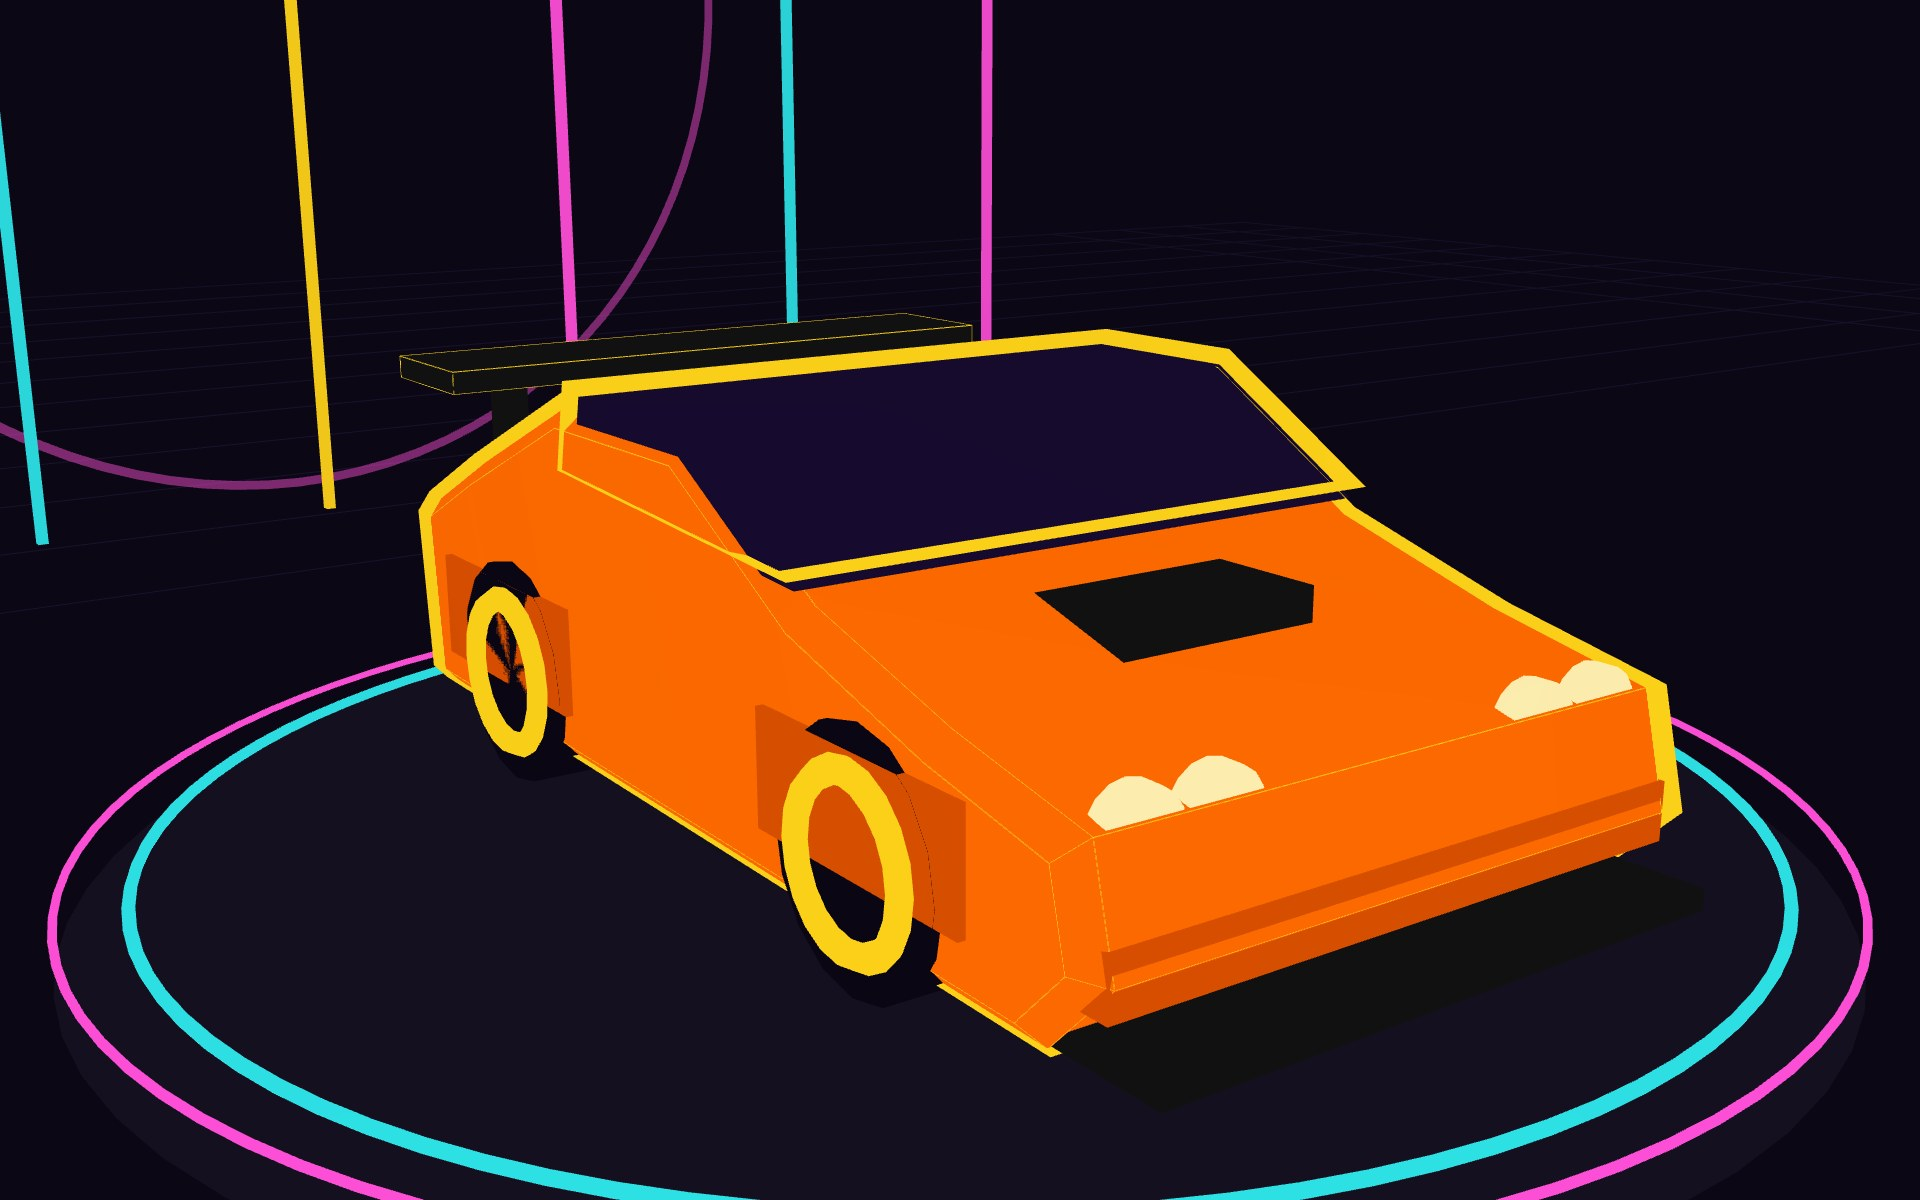
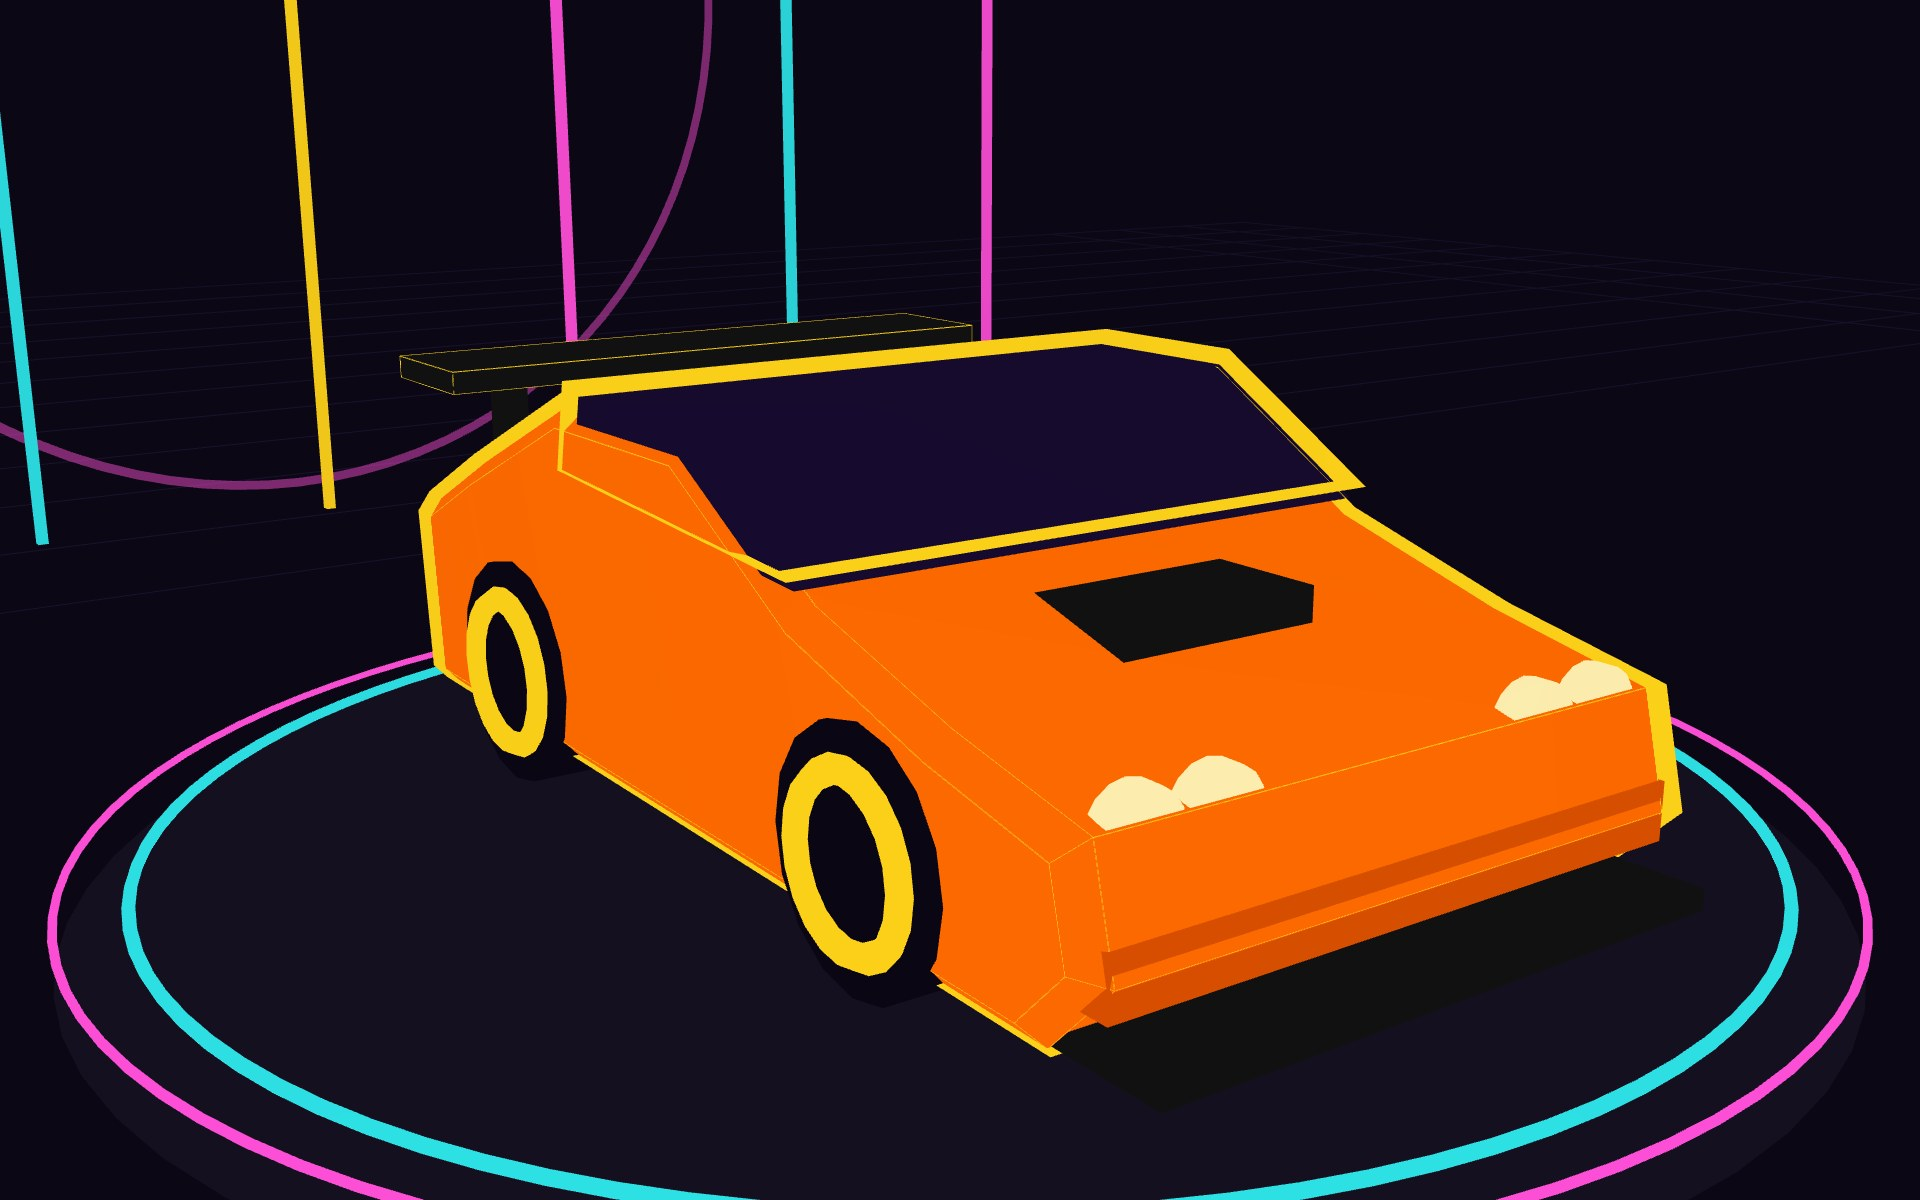
fix(mockup): ajusta aletas del Solaris X y limpia el Comet GT
El Solaris X estrena una linea roja sobre el borde inclinado de cada aleta trasera. El Comet GT pierde las cajas que ensanchaban las aletas sobre las ruedas porque no acababan de renderizar bien. Capturas y contact sheets regeneradas.

Changed region(s): [[0.375, 0.5858, 0.5, 0.8017], [0.2188, 0.4625, 0.3125, 0.6167]]

diff --git a/src/app/infrastructure/render/three/mockup-vehicles.ts b/src/app/infrastructure/render/three/mockup-vehicles.ts
@@ -391,13 +391,6 @@ function cometGt(): Group {
   box(g, 1.58, 0.14, 0.16, 0xd94f00, 0, 0.28, -1.48);
   box(g, 0.55, 0.1, 0.45, 0x111111, 0, 0.7, -0.75);
 
-  // Ensanche de aletas en las cuatro ruedas.
-  for (const x of [-0.81, 0.81]) {
-    for (const z of [-0.82, 0.9]) {
-      box(g, 0.1, 0.28, 0.75, 0xd94f00, x, 0.4, z);
-    }
-  }
-
   // Cuatro faros redondos y alerón trasero.
   for (const x of [-0.65, -0.45, 0.45, 0.65]) {
     roundLight(g, 0.1, paint.head, x, 0.52, -1.46);
@@ -1095,6 +1088,10 @@ function solarisX(): Group {
     fin.position.set(x, 0.45, 0.95);
     g.add(fin);
     addOutline(g, fin, paint.accent, 20);
+
+    // Línea roja sobre el borde inclinado de cada aleta.
+    const edge = box(g, 0.01, 0.02, 0.66, 0xff1a2e, x * 1.05, 0.7, 1.425);
+    edge.rotation.x = 0.838;
   }
 
   // Barra de luz frontal y piloto trasero.
